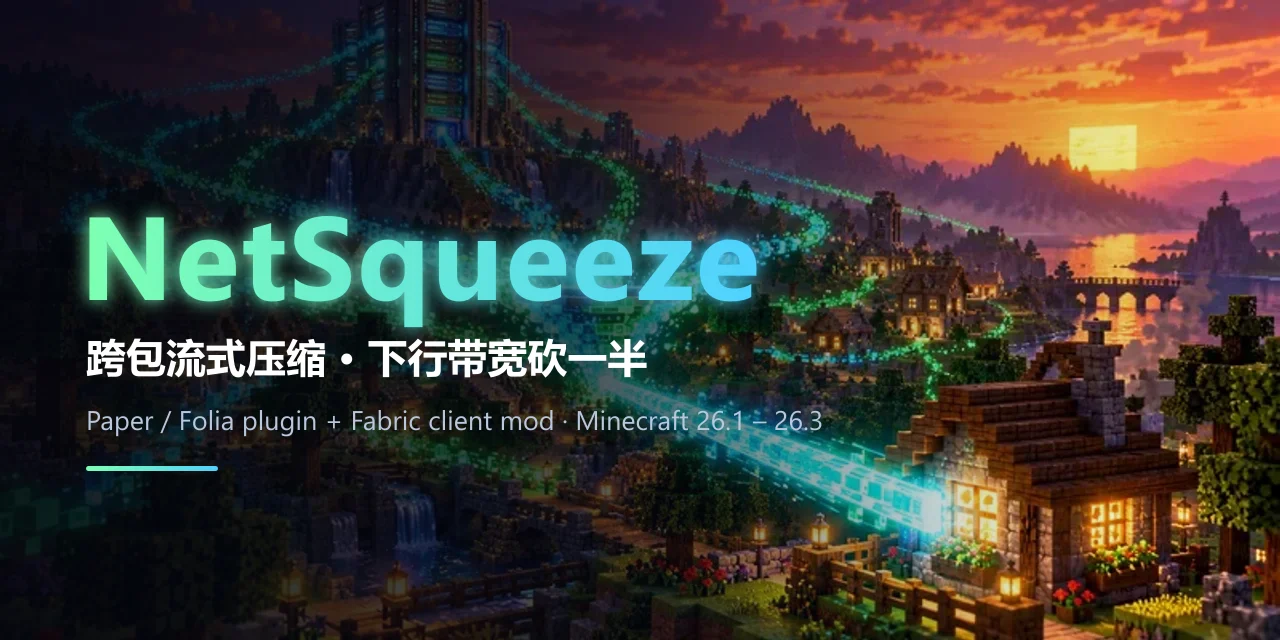
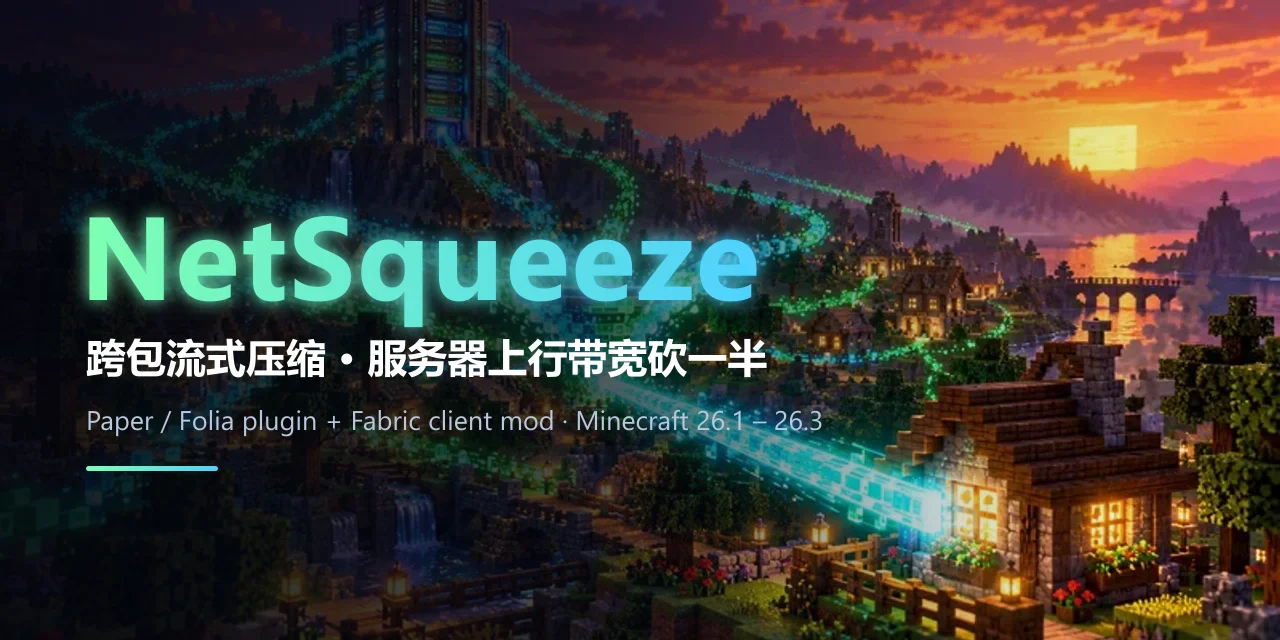
README 改成腐竹视角：服务器发给玩家的数据统一叫服务器上行(出口)带宽，补一句按带宽/流量计费省下的是钱，横幅副标题同步

Changed region(s): [[0.2812, 0.5312, 0.5938, 0.5938]]

diff --git a/README.md b/README.md
@@ -4,7 +4,9 @@
 
 <br/>
 
-**服务器发给玩家的数据，按 tick 攒成一帧、整条连接共用一个压缩流。<br/>装了模组的玩家下行带宽砍一半以上，没装的什么都不变。**
+**服务器发给玩家的数据，按 tick 攒成一帧、整条连接共用一个压缩流。<br/>装了模组的玩家占用的服务器上行带宽砍一半以上，没装的什么都不变。**
+
+**按带宽或流量计费的服务器，省下来的就是真金白银。**
 
 <br/>
 
@@ -96,18 +98,18 @@ flowchart LR
 
 ## 📊 实测
 
-某 Folia 系服务器（Canvas 26.1.2），约 250 人在线，玩家多为 26.1.2 客户端，稳态下的**人均下行**（含 TCP/IP 包头估算）：
+某 Folia 系服务器（Canvas 26.1.2），约 250 人在线，玩家多为 26.1.2 客户端，稳态下**每个玩家占用的服务器上行带宽**（含 TCP/IP 包头估算）：
 
 ```mermaid
 %%{init: {"themeVariables": {"xyChart": {"plotColorPalette": "#2da44e"}}}}%%
 xychart-beta
-    title "人均下行带宽 (kbps，越低越好)"
+    title "每个玩家占用的服务器上行带宽 (kbps，越低越好)"
     x-axis ["原版", "原版 + 核心攒 flush", "NetSqueeze"]
     y-axis "kbps" 0 --> 350
     bar [322, 211, 91]
 ```
 
-| | 人均下行 | 说明 |
+| | 人均上行 | 说明 |
 |---|---|---|
 | 原版 | 322 kbps | 未改核心，95% 的 flush 只带 1 个包，TCP/IP 包头约占三分之一 |
 | 原版 + 核心攒 flush | 211 kbps | 服务端本地补丁把暂停 flush 扩到整个区域 tick，每人每 tick 约 1 次 flush |
@@ -134,8 +136,8 @@ sequenceDiagram
     S->>C: netsqueeze:enable（最后一个原版格式的包）
     Note over S: 同一个 netty 任务里换上流式压缩
     Note over C: 在 netty 线程上解到 enable 的那一刻就地切换
-    S-->>C: 之后的下行全部是流式压缩帧
-    C->>S: 上行照走原版
+    S-->>C: 之后服务器发出的全部是流式压缩帧
+    C->>S: 客户端发给服务器的照走原版
 ```
 
 服务器没装插件时收不到 `enable`，客户端在配置阶段结束时自己撤掉，之后零开销。
